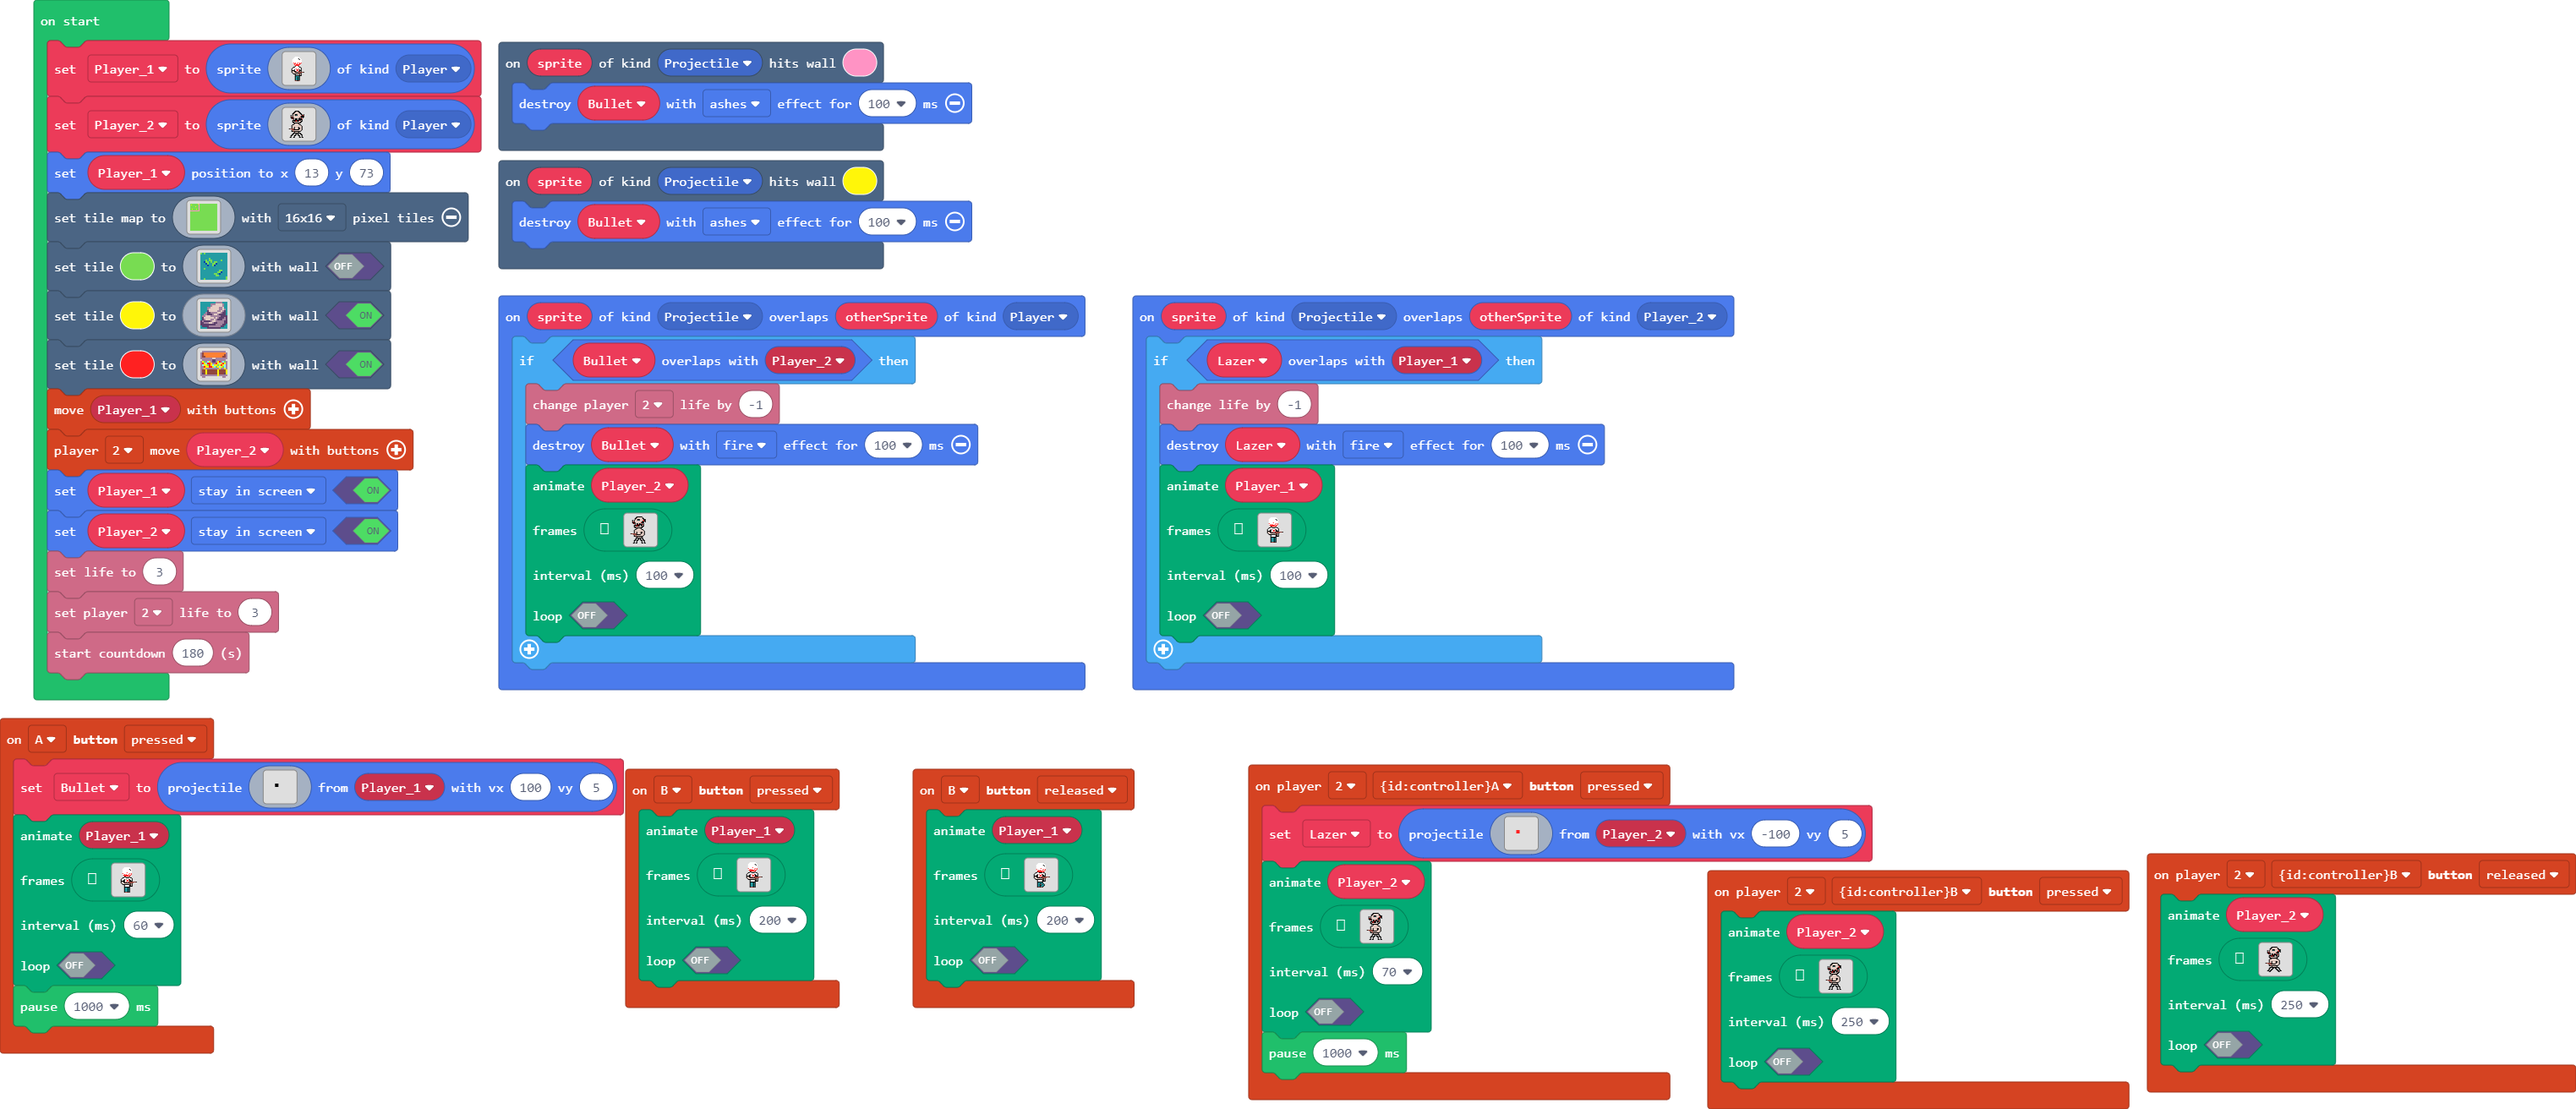
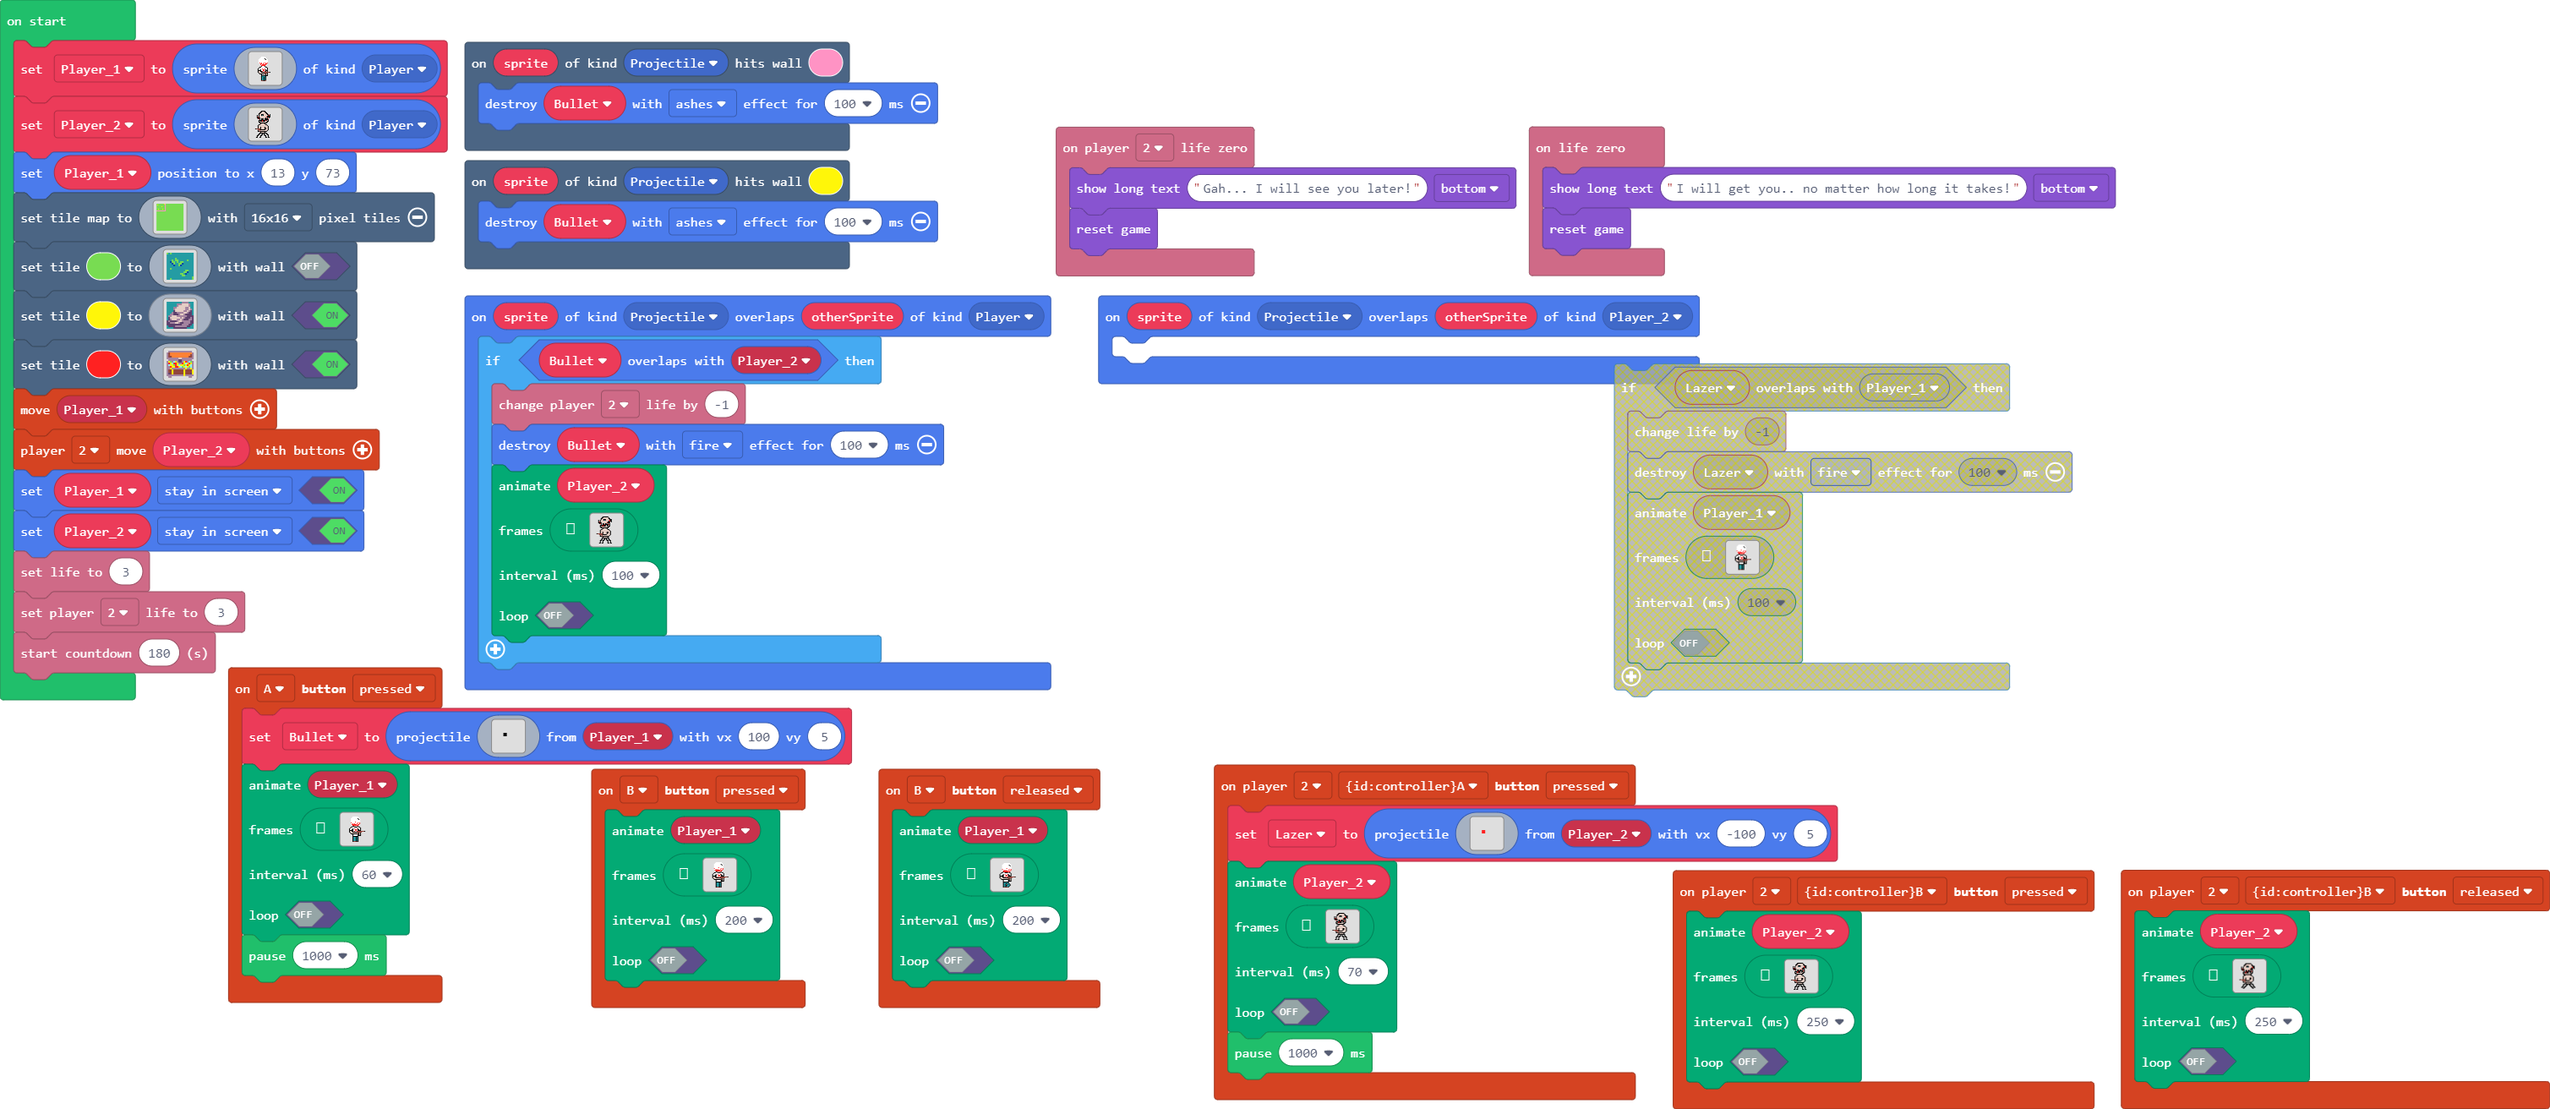
Update main.blocks, main.ts

Changed region(s): [[0.0, 0.0, 1.0, 1.0], [0.3427, 0.5625, 0.3739, 0.5938]]

diff --git a/main.ts b/main.ts
@@ -454,6 +454,10 @@ controller.player2.onButtonEvent(ControllerButton.A, ControllerButtonEvent.Press
     )
     pause(1000)
 })
+info.player2.onLifeZero(function () {
+    game.showLongText("Gah... I will see you later!", DialogLayout.Bottom)
+    game.reset()
+})
 controller.A.onEvent(ControllerButtonEvent.Pressed, function () {
     Bullet = sprites.createProjectileFromSprite(img`
 . . . . . . . . . . . . . . . . 
@@ -754,115 +758,11 @@ controller.player2.onButtonEvent(ControllerButton.B, ControllerButtonEvent.Press
     )
 })
 sprites.onOverlap(SpriteKind.Projectile, SpriteKind.Player_2, function (sprite, otherSprite) {
-    if (Lazer.overlapsWith(Player_1)) {
-        info.changeLifeBy(-1)
-        Lazer.destroy(effects.fire, 100)
-        animation.runImageAnimation(
-        Player_1,
-        [img`
-. . . . . . . . . . . . . . . . . . . . . . . . . . . . . . . . 
-. . . . . . . . . . . 1 1 1 1 1 1 1 . . . . . . . . . . . . . . 
-. . . . . . . . . . 1 1 1 1 1 1 1 1 1 . . . . . . . . . . . . . 
-. . . . . . . . . 1 1 1 1 1 1 1 1 f 1 1 . . . . . . . . . . . . 
-. . . . . . . . . 1 1 1 1 1 1 1 1 1 f 1 . . . . . . . . . . . . 
-. . . . . . . . . 1 1 1 1 1 1 1 1 1 1 1 . . . . . . . . . . . . 
-. . . . . . . . . 1 1 1 1 1 1 1 1 1 1 1 . . . . . . . . . . . . 
-. . . . . . . . . 1 1 1 1 1 2 1 1 1 1 1 . . . . . . . . . . . . 
-. . . . . . . . . 2 1 1 1 1 1 1 1 2 1 2 . . . . . . . . . . . . 
-. . . . . . . . . 1 1 2 1 2 1 1 2 1 1 2 . . . . . . . . . . . . 
-. . . . . . . . . . 2 2 2 2 2 2 1 2 2 . . . . . . . . . . . . . 
-. . . . . . . . . . . 2 2 2 2 2 2 2 . . . . . . . . . . . . . . 
-. . . . . . . . . . . f f d d d d f . . . . . . . . . . . . . . 
-. . . . . . . . . f f 1 1 f f f f 1 f f . . . . . . . . . . . . 
-. . . . . . . . f 1 1 1 1 1 1 1 1 1 1 1 f . . . . . . . . . . . 
-. . . . . . . f 1 1 1 f 1 2 1 1 2 f 1 1 f . . . . . . . . . . . 
-. . . . . . . f 1 1 f f 1 1 2 2 1 f f 1 f . . . . . . . . . . . 
-. . . . . . . f f f f f 1 1 2 2 1 f f f f . . . . . . . . . . . 
-. . . . . . . f d d f f 1 2 1 1 2 e e e e e e e e f . . . . . . 
-. . . . . . . f d d d f f f f f f e e e e e . . . . . . . . . . 
-. . . . . . . . f d d d d d d d d e f d f . . . . . . . . . . . 
-. . . . . . . . . f f f f f f f f e f d f . . . . . . . . . . . 
-. . . . . . . . . . . f 1 1 1 1 1 f f d f . . . . . . . . . . . 
-. . . . . . . . . . . f 1 1 1 1 1 f f f f . . . . . . . . . . . 
-. . . . . . . . . . . f f f f f f f . . . . . . . . . . . . . . 
-. . . . . . . . . . . f 6 6 6 f 6 f . . . . . . . . . . . . . . 
-. . . . . . . . . . . f 6 6 6 f 6 f . . . . . . . . . . . . . . 
-. . . . . . . . . . . f 6 6 6 f 6 f . . . . . . . . . . . . . . 
-. . . . . . . . . . . f 6 6 6 f 6 f . . . . . . . . . . . . . . 
-. . . . . . . . . . . f 6 6 6 f 6 f . . . . . . . . . . . . . . 
-. . . . . . . . . . . f e e e f e f . . . . . . . . . . . . . . 
-. . . . . . . . . . . . . . . . . . . . . . . . . . . . . . . . 
-`,img`
-. . . . . . . . . . . . . . . . . . . . . . . . . . . . . . . . 
-. . . . . . . . . . . 1 1 1 1 1 1 1 . . . . . . . . . . . . . . 
-. . . . . . . . . . 1 1 1 1 1 1 1 1 1 . . . . . . . . . . . . . 
-. . . . . . . . . 1 1 1 1 1 1 1 1 f 1 1 . . . . . . . . . . . . 
-. . . . . . . . . 1 1 1 1 1 1 1 1 1 f 1 . . . . . . . . . . . . 
-. . . . . . . . . 1 1 1 1 1 1 1 1 1 1 1 . . . . . . . . . . . . 
-. . . . . . . . . 1 1 1 1 1 1 1 1 1 1 1 . . . . . . . . . . . . 
-. . . . . . . . . 1 1 1 1 1 2 1 1 1 1 1 . . . . . . . . . . . . 
-. . . . . . . . . 2 1 1 1 1 1 1 1 2 1 2 . . . . . . . . . . . . 
-. . . . . . . . . 1 1 2 1 2 1 1 2 1 1 2 . . . . . . . . . . . . 
-. . . . . . . . . . 2 2 2 2 2 2 1 2 2 . . . . . . . . . . . . . 
-. . . . . . . . . . . 2 2 2 2 2 2 2 . . . . . . . . . . . . . . 
-. . . . . . . . f f f f f d d d d f . . . . . . . . . . . . . . 
-. . . . . . . f 1 1 1 1 1 f f f f 1 f f . . . . . . . . . . . . 
-. . . . . . f 1 1 1 1 1 1 1 1 1 1 1 1 1 f . . . . . . . . . . . 
-. . . . . . f 1 1 1 f 1 1 2 1 1 2 f 1 1 f . . . . . . . . . . . 
-. . . . . . f 1 1 f 1 1 1 1 2 2 1 f 1 1 f . . . . . . . . . . . 
-. . . . . . f f f f 1 1 1 1 2 e e e e e e e f . . . . . . . . . 
-. . . . . . f d d d f f f f f e e e e d f . . . . . . . . . . . 
-. . . . . . . f d d d d d d d e 1 f d d f . . . . . . . . . . . 
-. . . . . . . . f f f f f f f e 1 f d d f . . . . . . . . . . . 
-. . . . . . . . . . . f 1 1 1 2 1 f d d f . . . . . . . . . . . 
-. . . . . . . . . . . f 1 4 1 1 1 f d d f . . . . . . . . . . . 
-. . . . . . . . . . . f 2 1 1 2 1 f f f f . . . . . . . . . . . 
-. . . . . . . . . . . f f f f f f f . . . . . . . . . . . . . . 
-. . . . . . . . . . . f 6 6 6 f 6 f . . . . . . . . . . . . . . 
-. . . . . . . . . . . f 6 6 6 f 6 f . . . . . . . . . . . . . . 
-. . . . . . . . . . . f 6 6 6 f 6 f . . . . . . . . . . . . . . 
-. . . . . . . . . . . f 6 6 6 f 6 f . . . . . . . . . . . . . . 
-. . . . . . . . . . . f 6 6 6 f 6 f . . . . . . . . . . . . . . 
-. . . . . . . . . . . f e e e f e f . . . . . . . . . . . . . . 
-. . . . . . . . . . . . . . . . . . . . . . . . . . . . . . . . 
-`,img`
-. . . . . . . . . . . . . . . . . . . . . . . . . . . . . . . . 
-. . . . . . . . . . . 1 1 1 1 1 1 1 . . . . . . . . . . . . . . 
-. . . . . . . . . . 1 1 1 1 1 1 1 1 1 . . . . . . . . . . . . . 
-. . . . . . . . . 1 1 1 1 1 1 1 1 f 1 1 . . . . . . . . . . . . 
-. . . . . . . . . 1 1 1 1 1 1 1 1 1 f 1 . . . . . . . . . . . . 
-. . . . . . . . . 1 1 1 1 1 1 1 1 1 1 1 . . . . . . . . . . . . 
-. . . . . . . . . 1 1 1 1 1 1 1 1 1 1 1 . . . . . . . . . . . . 
-. . . . . . . . . 1 1 1 1 1 2 1 1 1 1 1 . . . . . . . . . . . . 
-. . . . . . . . . 2 1 1 1 1 1 1 1 2 1 2 . . . . . . . . . . . . 
-. . . . . . . . . 1 1 2 1 2 1 1 2 1 1 2 . . . . . . . . . . . . 
-. . . . . . . . . . 2 2 2 2 2 2 1 2 2 . . . . . . . . . . . . . 
-. . . . . . . . . . . 2 2 2 2 2 2 2 . . . . . . . . . . . . . . 
-. . . . . . . . . . . f f d d d d f . . . . . . . . . . . . . . 
-. . . . . . . . . f f 1 1 f f f f 1 f f . . . . . . . . . . . . 
-. . . . . . . . f 1 1 1 1 1 1 1 1 1 1 1 f . . . . . . . . . . . 
-. . . . . . . f 1 1 1 f 1 2 1 1 2 f 1 1 f . . . . . . . . . . . 
-. . . . . . . f 1 1 f f 1 1 2 2 1 f f 1 f . . . . . . . . . . . 
-. . . . . . . f f f f f 1 1 2 2 1 f f f f . . . . . . . . . . . 
-. . . . . . . f d d f f 1 2 1 1 2 e e e e e e e e f . . . . . . 
-. . . . . . . f d d d f f f f f f e e e e e . . . . . . . . . . 
-. . . . . . . . f d d d d d d d d e f d f . . . . . . . . . . . 
-. . . . . . . . . f f f f f f f f e f d f . . . . . . . . . . . 
-. . . . . . . . . . . f 1 1 1 1 1 f f d f . . . . . . . . . . . 
-. . . . . . . . . . . f 1 1 1 1 1 f f f f . . . . . . . . . . . 
-. . . . . . . . . . . f f f f f f f . . . . . . . . . . . . . . 
-. . . . . . . . . . . f 6 6 6 f 6 f . . . . . . . . . . . . . . 
-. . . . . . . . . . . f 6 6 6 f 6 f . . . . . . . . . . . . . . 
-. . . . . . . . . . . f 6 6 6 f 6 f . . . . . . . . . . . . . . 
-. . . . . . . . . . . f 6 6 6 f 6 f . . . . . . . . . . . . . . 
-. . . . . . . . . . . f 6 6 6 f 6 f . . . . . . . . . . . . . . 
-. . . . . . . . . . . f e e e f e f . . . . . . . . . . . . . . 
-. . . . . . . . . . . . . . . . . . . . . . . . . . . . . . . . 
-`],
-        100,
-        false
-        )
-    }
+	
+})
+info.onLifeZero(function () {
+    game.showLongText("I will get you.. no matter how long it takes!", DialogLayout.Bottom)
+    game.reset()
 })
 sprites.onOverlap(SpriteKind.Projectile, SpriteKind.Player, function (sprite, otherSprite) {
     if (Bullet.overlapsWith(Player_2)) {
